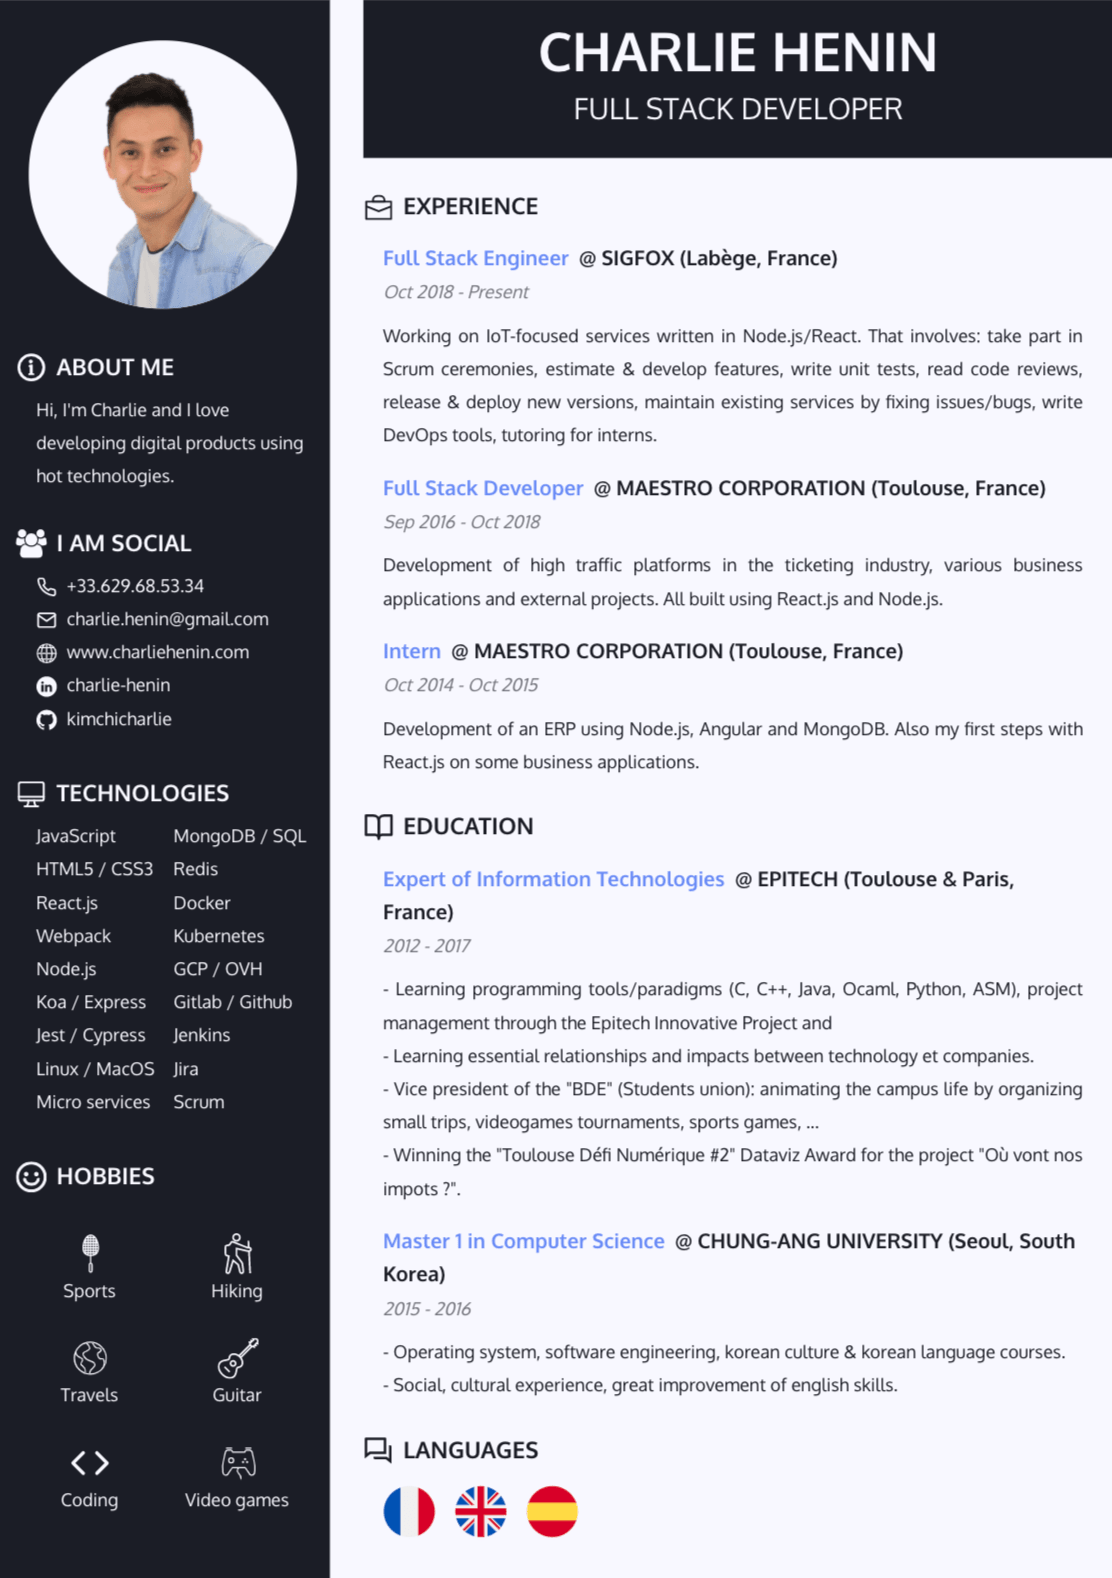
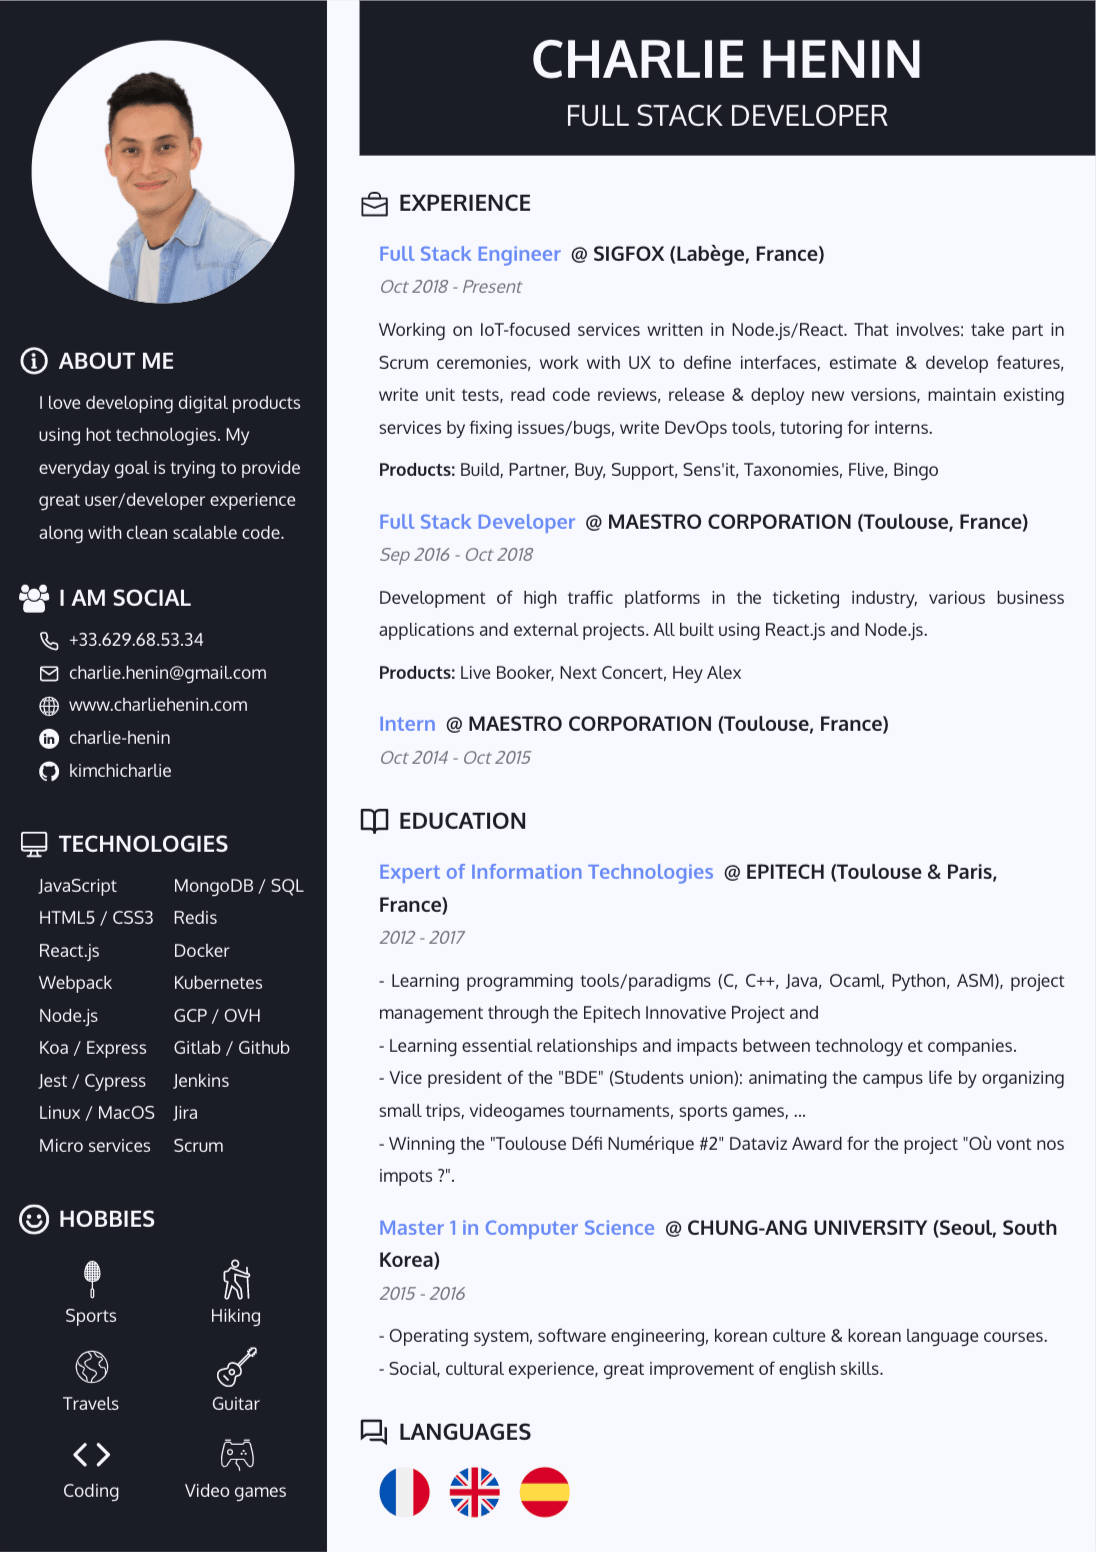
feat: add products developed list

diff --git a/src/views/Resume/RightColumn/index.js b/src/views/Resume/RightColumn/index.js
@@ -29,7 +29,39 @@ const RightColumn = () => {
               secondary: '@ SIGFOX (Labège, France)',
               optional: 'Oct 2018 - Present',
               description: [
-                'Working on IoT-focused services written in Node.js/React. That involves: take part in Scrum ceremonies, estimate & develop features, write unit tests, read code reviews, release & deploy new versions, maintain existing services by fixing issues/bugs, write DevOps tools, tutoring for interns.',
+                'Working on IoT-focused services written in Node.js/React. That involves: take part in Scrum ceremonies, work with UX to define interfaces, estimate & develop features, write unit tests, read code reviews, release & deploy new versions, maintain existing services by fixing issues/bugs, write DevOps tools, tutoring for interns.',
+              ],
+              products: [
+                {
+                  name: 'Build',
+                  url: 'https://build.sigfox.com',
+                },
+                {
+                  name: 'Partner',
+                  url: 'https://partners.sigfox.com',
+                },
+                {
+                  name: 'Buy',
+                  url: 'https://buy.sigfox.com',
+                },
+                {
+                  name: 'Support',
+                  url: 'https://support.sigfox.com',
+                },
+                {
+                  name: "Sens'it",
+                  url: 'https://sensit.io',
+                },
+                {
+                  name: 'Taxonomies',
+                },
+                {
+                  name: 'Flive',
+                  url: 'https://flive.sigfox.com/',
+                },
+                {
+                  name: 'Bingo',
+                },
               ],
             },
             {
@@ -39,14 +71,25 @@ const RightColumn = () => {
               description: [
                 'Development of high traffic platforms in the ticketing industry, various business applications and external projects. All built using React.js and Node.js.',
               ],
+              products: [
+                {
+                  name: 'Live Booker',
+                  url: 'https://live-booker.fr/',
+                },
+                {
+                  name: 'Next Concert',
+                  url: 'https://next-concert.fr',
+                },
+                {
+                  name: 'Hey Alex',
+                  url: 'https://hey-alex.fr',
+                },
+              ],
             },
             {
               primary: 'Intern',
               secondary: '@ MAESTRO CORPORATION (Toulouse, France)',
               optional: 'Oct 2014 - Oct 2015',
-              description: [
-                'Development of an ERP using Node.js, Angular and MongoDB. Also my first steps with React.js on some business applications.',
-              ],
             },
           ]}
         />

diff --git a/src/components/HistoricalList/index.js b/src/components/HistoricalList/index.js
@@ -29,11 +29,41 @@ const HistoricalList = props => {
               </div>
             )}
           </div>
-          <div className="historical-list-item-description">
-            {item.description.map(description => (
-              <span key={description}>{description}</span>
-            ))}
-          </div>
+          {item.description && (
+            <div className="historical-list-item-description">
+              {item.description.map(description => (
+                <span key={description}>{description}</span>
+              ))}
+            </div>
+          )}
+          {item.products && (
+            <div className="historical-list-item-products">
+              <span className="historical-list-item-products-title">
+                Products:{' '}
+              </span>
+              {item.products.map(({ name, url }, index) => {
+                const isLastProduct = item.products.length === index + 1;
+                return url ? (
+                  <span>
+                    <a
+                      key={name}
+                      href={url}
+                      target="_blank"
+                      rel="noopener noreferrer"
+                      className="historical-list-item-products-link"
+                    >
+                      {name}
+                    </a>
+                    {isLastProduct ? '' : ', '}
+                  </span>
+                ) : (
+                  <span key={name}>{`${name}${
+                    isLastProduct ? '' : ', '
+                  }`}</span>
+                );
+              })}
+            </div>
+          )}
         </div>
       ))}
     </div>
@@ -46,7 +76,13 @@ HistoricalList.propTypes = {
       primary: PropTypes.string.isRequired,
       secondary: PropTypes.string.isRequired,
       optional: PropTypes.string,
-      description: PropTypes.arrayOf(PropTypes.string).isRequired,
+      description: PropTypes.arrayOf(PropTypes.string),
+      products: PropTypes.arrayOf(
+        PropTypes.shape({
+          name: PropTypes.string.isRequired,
+          url: PropTypes.string,
+        })
+      ),
     })
   ),
 };

diff --git a/src/views/Resume/LeftColumn/index.js b/src/views/Resume/LeftColumn/index.js
@@ -40,8 +40,9 @@ const LeftColumn = () => {
         <SectionTitle iconComponent={InfoSVG} title="ABOUT ME" />
         <div className="about-section-content">
           <p>
-            Hi, I'm Charlie and I love developing digital products using hot
-            technologies.
+            I love developing digital products using hot technologies. My
+            everyday goal is trying to provide great user/developer experience
+            along with clean scalable code.
           </p>
         </div>
       </div>

diff --git a/src/components/HistoricalList/style.css b/src/components/HistoricalList/style.css
@@ -36,3 +36,21 @@
   font-size: 14px;
   text-align: justify;
 }
+
+.historical-list-item-products {
+  margin-top: 8px;
+  font-size: 14px;
+}
+
+.historical-list-item-products-title {
+  font-weight: bold;
+}
+
+.historical-list-item-products-link {
+  text-decoration: none;
+  color: inherit;
+}
+
+.historical-list-item-products-link:hover {
+  opacity: 0.5;
+}

diff --git a/src/views/Resume/LeftColumn/style.css b/src/views/Resume/LeftColumn/style.css
@@ -95,7 +95,7 @@
 
 .hobbies-section-icon:not(:nth-child(1)),
 .hobbies-section-icon:not(:nth-child(2)) {
-  margin-top: 24px;
+  margin-top: 12px;
 }
 
 @media screen and (max-width: 878px) {
